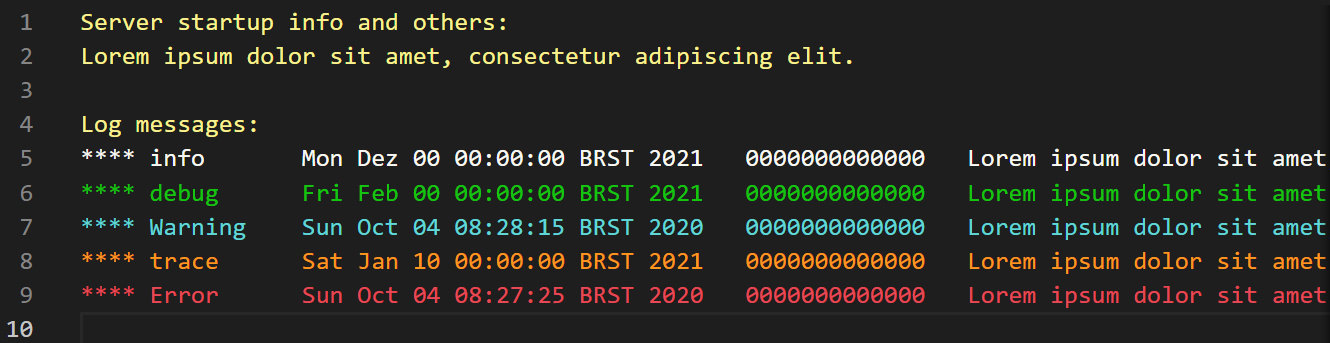
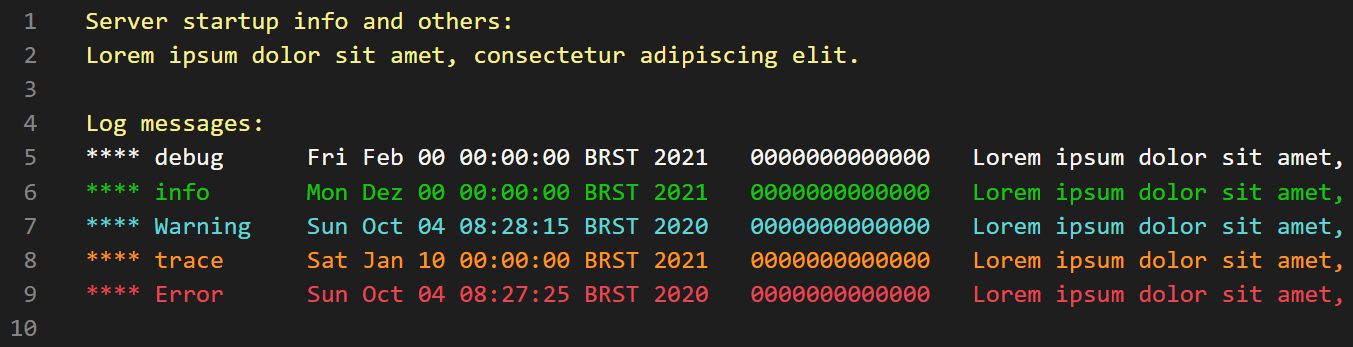
Update Debug and Info colors

diff --git a/README.md b/README.md
@@ -1,4 +1,4 @@
-# atgcolor README
+# AtgOutColorize
 
 ![Sample Colorized Log File (file.out) Screenshot](/imgs/sample_image.png?raw=true "Sample Colorized Log File (file.out)")
 
@@ -31,7 +31,7 @@ The following configuration needs to be added to the settings.json file:
         {
             "scope": "debug.source.out",
             "settings": {
-                "foreground": "#13C60D"
+                "foreground": "#F8F8F2"
             }
         },
         {
@@ -61,7 +61,7 @@ The following configuration needs to be added to the settings.json file:
         {
             "scope": "info.source.out",
             "settings": {
-                "foreground": "#F8F8F2"
+                "foreground": "#13C60D"
             }
         },
         {
